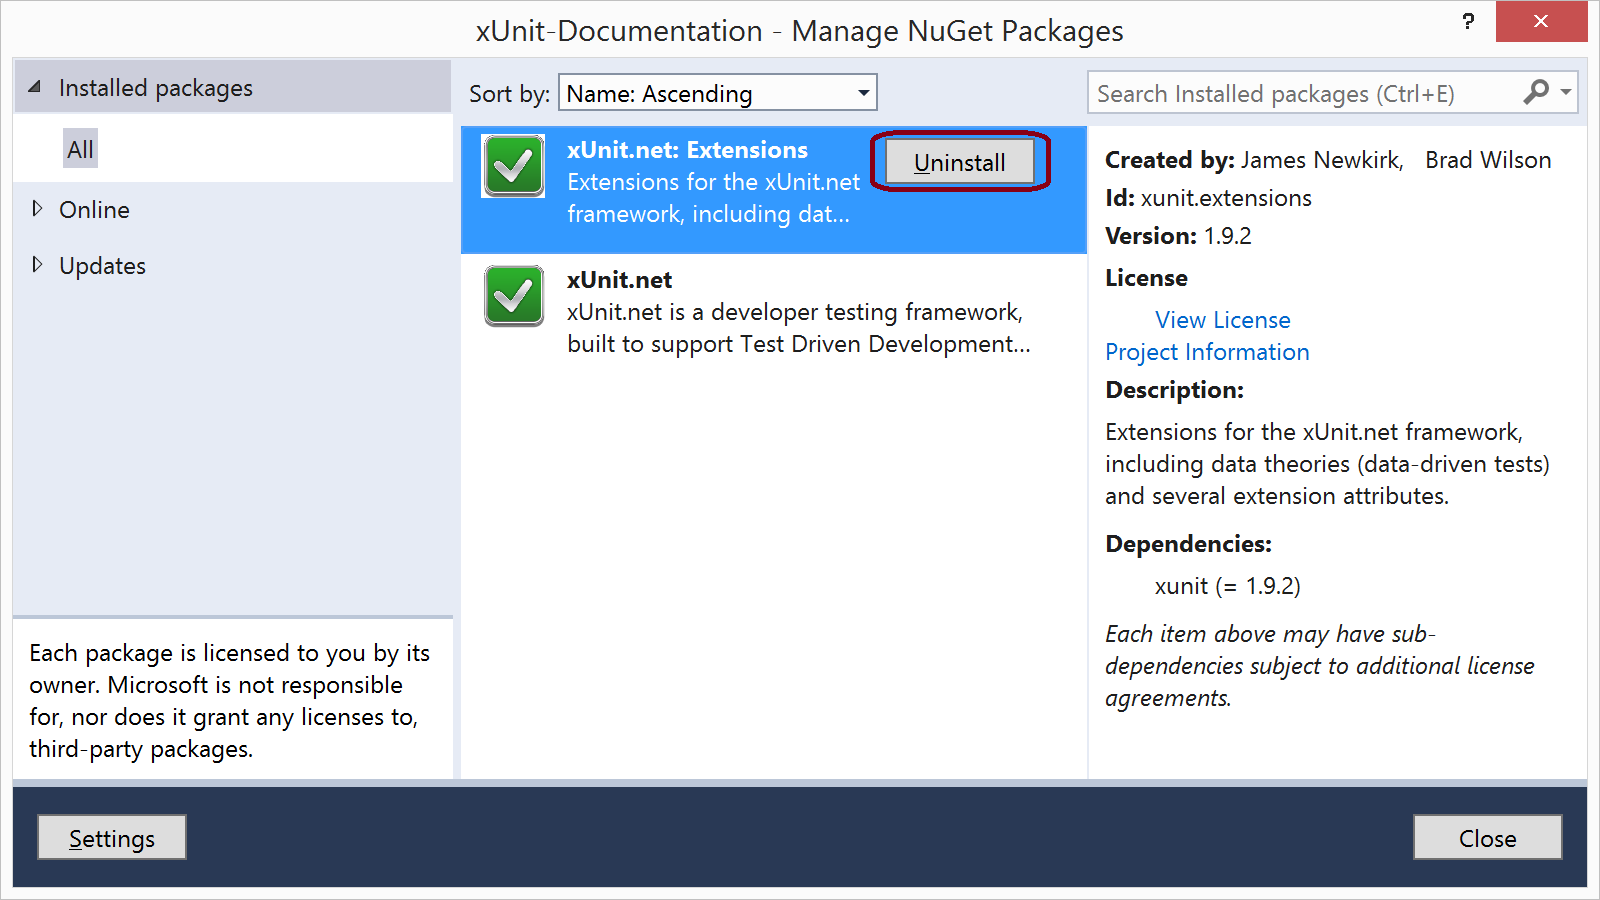
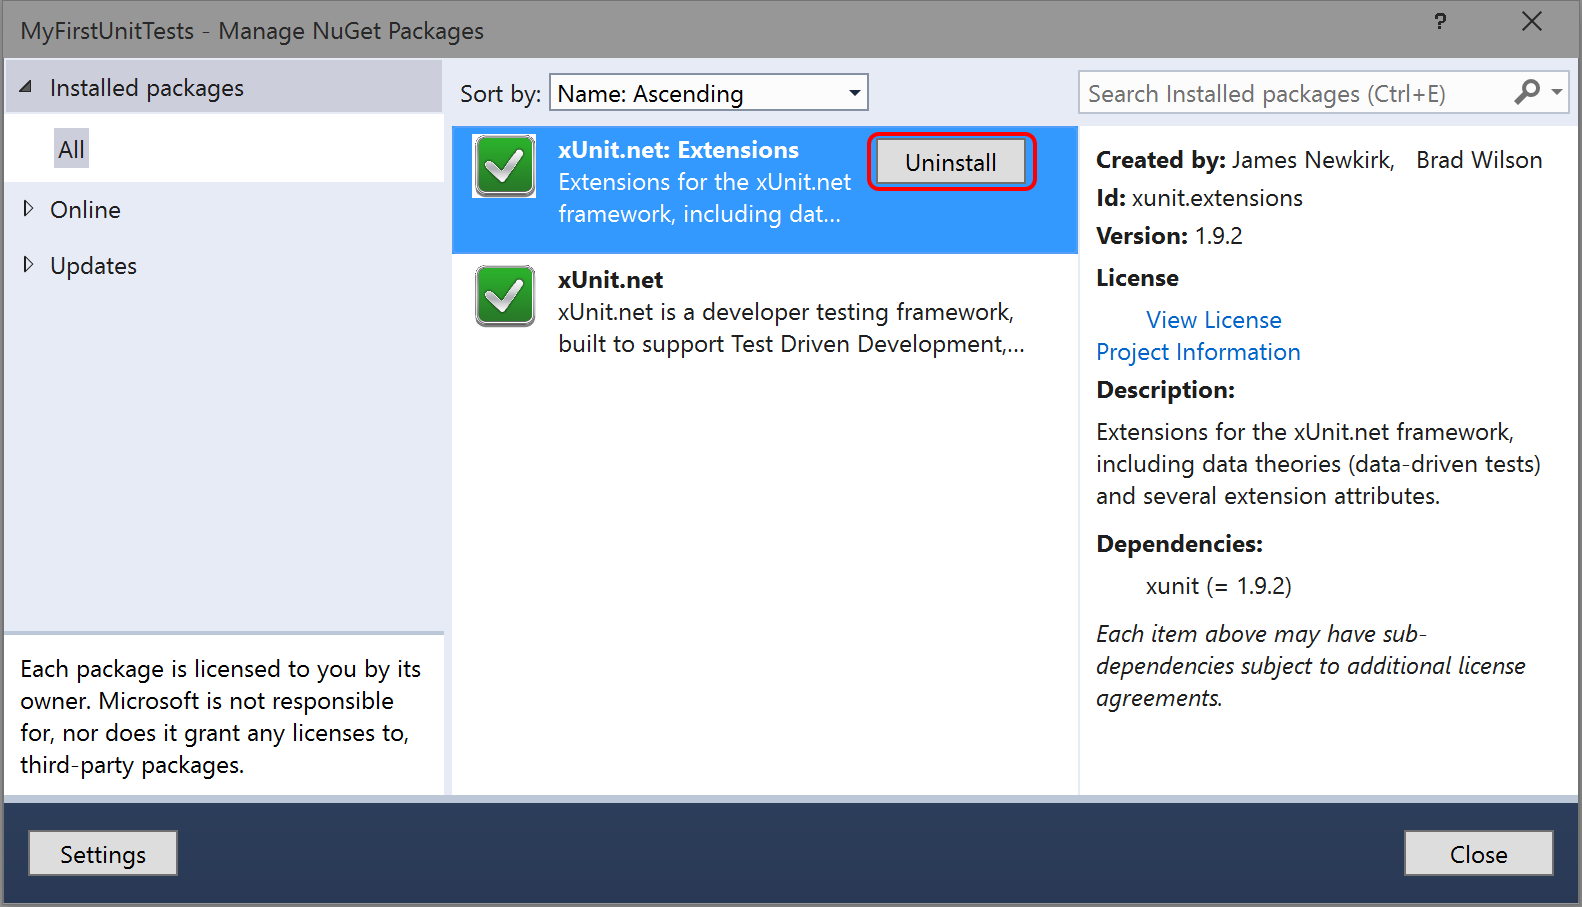
Update screenshots for 2.0 RTM

Changed region(s): [[0.0, 0.0, 1.0, 1.0], [0.6814, 0.5911, 0.9602, 0.8089]]

diff --git a/docs/getting-started.html b/docs/getting-started.html
@@ -15,14 +15,14 @@ breadcrumb: Documentation
   <li><a href="#create-class-library">Create a class library project</a></li>
   <li><a href="#add-xunit-ref">Add a reference to xUnit.net</a></li>
   <li><a href="#write-first-tests">Write your first tests</a></li>
-  <li><a href="#add-xunit-runners-ref">Add a reference to xUnit.net runners</a></li>
+  <li><a href="#add-xunit-runner-ref">Add a reference to xUnit.net console runner</a></li>
   <li><a href="#run-tests">Run tests with the xUnit.net console runner</a></li>
   <li><a href="#write-first-theory">Write your first theory</a></li>
   <li><a href="#run-tests-visualstudio">Run tests with Visual Studio</a></li>
 </ul>
 
 <p><em>
-  Note: The examples were done with xUnit.net v2.0 beta 5. The version numbers
+  Note: The examples were done with xUnit.net v2.0. The version numbers
   and paths may differ for you, depending on which version you're using.
 </em></p>
 
@@ -33,7 +33,7 @@ breadcrumb: Documentation
   Open Visual Studio, and choose <code>File &gt; New &gt; Project</code>:
 </p>
 
-<p><img class="border" src="../images/getting-started/new-project.png" width="800" /></p>
+<p><img class="border" src="../images/getting-started/new-project.png" width="791" /></p>
 
 <h2 id="add-xunit-ref">Add a reference to xUnit.net</h2>
 
@@ -42,18 +42,17 @@ breadcrumb: Documentation
   <code>Manage NuGet Packages</code>:
 </p>
 
-<p><img class="border" src="../images/getting-started/manage-nuget-packages.png" width="352" /></p>
+<p><img class="border" src="../images/manage-nuget-packages.png" width="352" /></p>
 
 <p>Now in the NuGet package manager window, take the following steps:</p>
 
 <ol>
   <li>On the left side, ensure <code>nuget.org</code> is selected under <code>Online</code></li>
-  <li>On the top edge, select <code>Include Prerelease</code> to use beta packages</li>
   <li>In the search box in the upper right corner, type <code>xunit</code></li>
   <li>Select the <code>xUnit.net</code> package, and click <code>Install</code></li>
 </ol>
 
-<p><img class="border" src="../images/getting-started/add-xunit.png" width="800" /></p>
+<p><img class="border" src="../images/add-xunit.png" width="791" /></p>
 
 <p>
   This package (<code>xunit</code>) is what's called a <em>meta-package</em>;
@@ -67,10 +66,11 @@ breadcrumb: Documentation
 {% highlight xml %}
 <?xml version="1.0" encoding="utf-8"?>
 <packages>
-  <package id="xunit" version="2.0.0-beta5-build2785" targetFramework="net45" />
-  <package id="xunit.abstractions" version="2.0.0-beta5-build2785" targetFramework="net45" />
-  <package id="xunit.assert" version="2.0.0-beta5-build2785" targetFramework="net45" />
-  <package id="xunit.core" version="2.0.0-beta5-build2785" targetFramework="net45" />
+  <package id="xunit" version="2.0.0" targetFramework="net45" />
+  <package id="xunit.abstractions" version="2.0.0" targetFramework="net45" />
+  <package id="xunit.assert" version="2.0.0" targetFramework="net45" />
+  <package id="xunit.core" version="2.0.0" targetFramework="net45" />
+  <package id="xunit.extensibility.core" version="2.0.0" targetFramework="net45" />
 </packages>
 {% endhighlight %}
 
@@ -112,18 +112,18 @@ namespace MyFirstUnitTests
 <p>
   Build the solution to ensure that the code compiles. Now that you've written
   the first test, we need a way to run it. Let's install the NuGet package with
-  the runners in it, which includes the console runner.
+  the console runner.
 </p>
 
-<h2 id="add-xunit-runners-ref">Add a reference to xUnit.net runners</h2>
+<h2 id="add-xunit-runner-ref">Add a reference to xUnit.net console runner</h2>
 
 <p>
   Once again, right click on the project in Solution Explorer and choose
   <code>Manage NuGet Packages</code>. This time, you're going to search for
-  (and install) a package named <code>xunit.runners</code>:
+  (and install) a package named <code>xunit.runner.console</code>:
 </p>
 
-<p><img class="border" src="../images/getting-started/add-xunit-runners.png" width="800" /></p>
+<p><img class="border" src="../images/getting-started/add-xunit-runner-console.png" width="820" /></p>
 
 <p>
   Unlike the previous package (which added references to the unit testing
@@ -146,7 +146,7 @@ namespace MyFirstUnitTests
 </p>
 
 <pre>
-&gt; <span style="background-color: #ff0">packages\xunit.runners.2.0.0-beta5-build2785\tools\xunit.console MyFirstUnitTests\bin\Debug\MyFirstUnitTests.dll</span>
+&gt; <span style="background-color: #ff0">packages\xunit.runner.console.2.0.0\tools\xunit.console MyFirstUnitTests\bin\Debug\MyFirstUnitTests.dll</span>
 xUnit.net console test runner (64-bit .NET 4.0.30319.34014)
 Copyright (C) 2014 Outercurve Foundation.
 

diff --git a/docs/test-migration.html b/docs/test-migration.html
@@ -43,16 +43,14 @@ breadcrumb: Documentation
       on the project in Solution Explorer, and then choosing the
       <code>Manage NuGet Packages...</code> menu item:
     </p>
-    <p><img class="border" src="/images/test-migration/manage-nuget-packages.png" width="346" /></p>
+    <p><img class="border" src="/images/manage-nuget-packages.png" width="352" /></p>
   </li>
   <li>
     <p>
-      Click on <code>Online</code> on the left side. In the drop down along the
-      middle top of the window, select <code>Include Prerelease</code>. Now, in
-      the search box on the upper right, type <code>xunit</code>. The search
-      should yield results like this:
+      Click on <code>Online</code> on the left side. In the search box on the upper
+      right, type <code>xunit</code>. The search should yield results like this:
     </p>
-    <p><img class="border" src="/images/test-migration/add-package.png" width="600" /></p>
+    <p><img class="border" src="/images/add-xunit.png" width="791" /></p>
   </li>
   <li>
     <p>Locate the xUnit.net entry, and click <code>Install</code>.</p>
@@ -67,29 +65,24 @@ breadcrumb: Documentation
       Right click on the project in Solution Explorer, and then choose the
       <code>Manage NuGet Packages...</code> menu item:
     </p>
-    <p><img class="border" src="/images/test-migration/manage-nuget-packages.png" width="346" /></p>
+    <p><img class="border" src="/images/manage-nuget-packages.png" width="352" /></p>
   </li>
   <li>
     <p>
       Click on <code>Installed packages</code> on the left side. If you see
       <code>xUnit.net: Extensions</code> installed, please click the
-      <code>Uninstall</code> button:
+      <code>Uninstall</code> button. (If NuGet offers to uninstall the
+      <code>xunit</code> package for you, you should decline. You're going to
+      upgrade that package in the next step.)
     </p>
-    <p><img class="border" src="/images/test-migration/uninstall-extensions.png" width="600" /></p>
-    <p>
-      For more information on migrating your tests which used classes from
-      <code>xunit.extensions</code>, please see
-      <a href="upgrade-extensions.html">Migrating from v1 to v2: xunit.extensions</a>.
-    </p>
+    <p><img class="border" src="/images/test-migration/uninstall-extensions.png" width="791" /></p>
   </li>
   <li>
     <p>
-      Click on <code>Updates</code> on the left side. In the drop down along
-      the middle top of the window, select <code>Include Prerelease</code>.
-      Locate <code>xUnit.net</code> in the list of packages, and click
-      <code>Update</code>:
+      Click on <code>Updates</code> on the left side. Locate <code>xUnit.net</code>
+      in the list of packages, and click <code>Update</code>:
     </p>
-    <p><img class="border" src="/images/test-migration/update-xunit.png" width="600" /></p>
+    <p><img class="border" src="/images/test-migration/update-xunit.png" width="791" /></p>
   </li>
 </ol>
 
@@ -128,31 +121,11 @@ breadcrumb: Documentation
   </li>
   <li>
     <p><strong>Missing classes from xunit.extensions</strong></p>
-    <p>The following classes were moved from xunit.extensions into the core v2 library:</p>
-    <ul>
-      <li><code>TheoryAttribute</code></li>
-      <li><code>InlineDataAttribute</code></li>
-      <li><code>MemberDataAttribute</code> (previously called <code>PropertyDataAttribute</code>)</li>
-    </ul>
-    <br />
-    <p>The following classes were replaced with samples:</p>
-    <ul>
-      <li>Assert extensions (<a href="https://github.com/xunit/samples/tree/master/AssertExtensions">sample</a>)</li>
-      <li><code>AssumeIdentityAttribute</code> (<a href="https://github.com/xunit/samples/tree/master/AssumeIdentity">sample</a>)</li>
-      <li><code>ExcelDataAttribute</code> (<a href="https://github.com/xunit/samples/tree/master/ExcelDataExample">sample</a>)</li>
-    </ul>
+    <p>
+      Please see
+      <a href="upgrade-extensions.html">Migrating extensions from v1 to v2</a>
+      for information on migrating code that used <code>xunit.extensions</code>
+      to xUnit.net v2.
+    </p>
   </li>
 </ul>
-<!--
-<p>
-  If you uncover other compilation failures, you may have been using the
-  extensibility points in xUnit.net. Please see
-  <a href="extension-migration.html">Migrating extensions from v1 to v2</a> for
-  more information on migration your extensions to v2.
-</p>
-
-<section class="related-topics">Related topics:</section>
-<ul>
-  <li><a href="extension-migration.html">Migrating extensions from v1 to v2</a></li>
-</ul>
--->

diff --git a/docs/running-tests-in-vs.html b/docs/running-tests-in-vs.html
@@ -36,7 +36,7 @@ redirect_from: "/docs/running-v1-tests-in-vs.html"
   Search for (and install) a package named <code>xunit.runner.visualstudio</code>:
 </p>
 
-<p><img class="border" src="../images/getting-started/add-xunit-runner-visualstudio.png" width="875" /></p>
+<p><img class="border" src="../images/getting-started/add-xunit-runner-visualstudio.png" width="868" /></p>
 
 <p>
   Make sure Test Explorer is visible (go to <code>Test &gt; Windows &gt; Test Explorer</code>). Every

diff --git a/index.html b/index.html
@@ -55,7 +55,6 @@ noheader: true
 <ul>
   <li><a href="docs/test-migration.html">Migrating unit tests from v1 to v2</a></li>
   <li><a href="docs/upgrade-extensions.html">Where to find code that used to live in <code>xunit.extensions</code></a></li>
-  <!--<li><a href="docs/extension-migration.html">Migrating extensions from v1 to v2</a></li>-->
 </ul>
 
 <h2 id="releases">Release Notes</h2>

diff --git a/docs/tdd-example.html b/docs/tdd-example.html
@@ -349,10 +349,3 @@ public void PushNCountMustBeN()
   Test #4 - Create a <i>Stack</i>, <i>Push</i> a single element, call <i>Pop</i>
   on the <i>Stack</i> and verify that <i>Count</i> is zero.
 </h4>
-
-<!--
-<section class="related-topics">Related topics:</section>
-<ul>
-  <li><a href="extension-migration.html">Migrating extensions from v1 to v2</a></li>
-</ul>
--->
